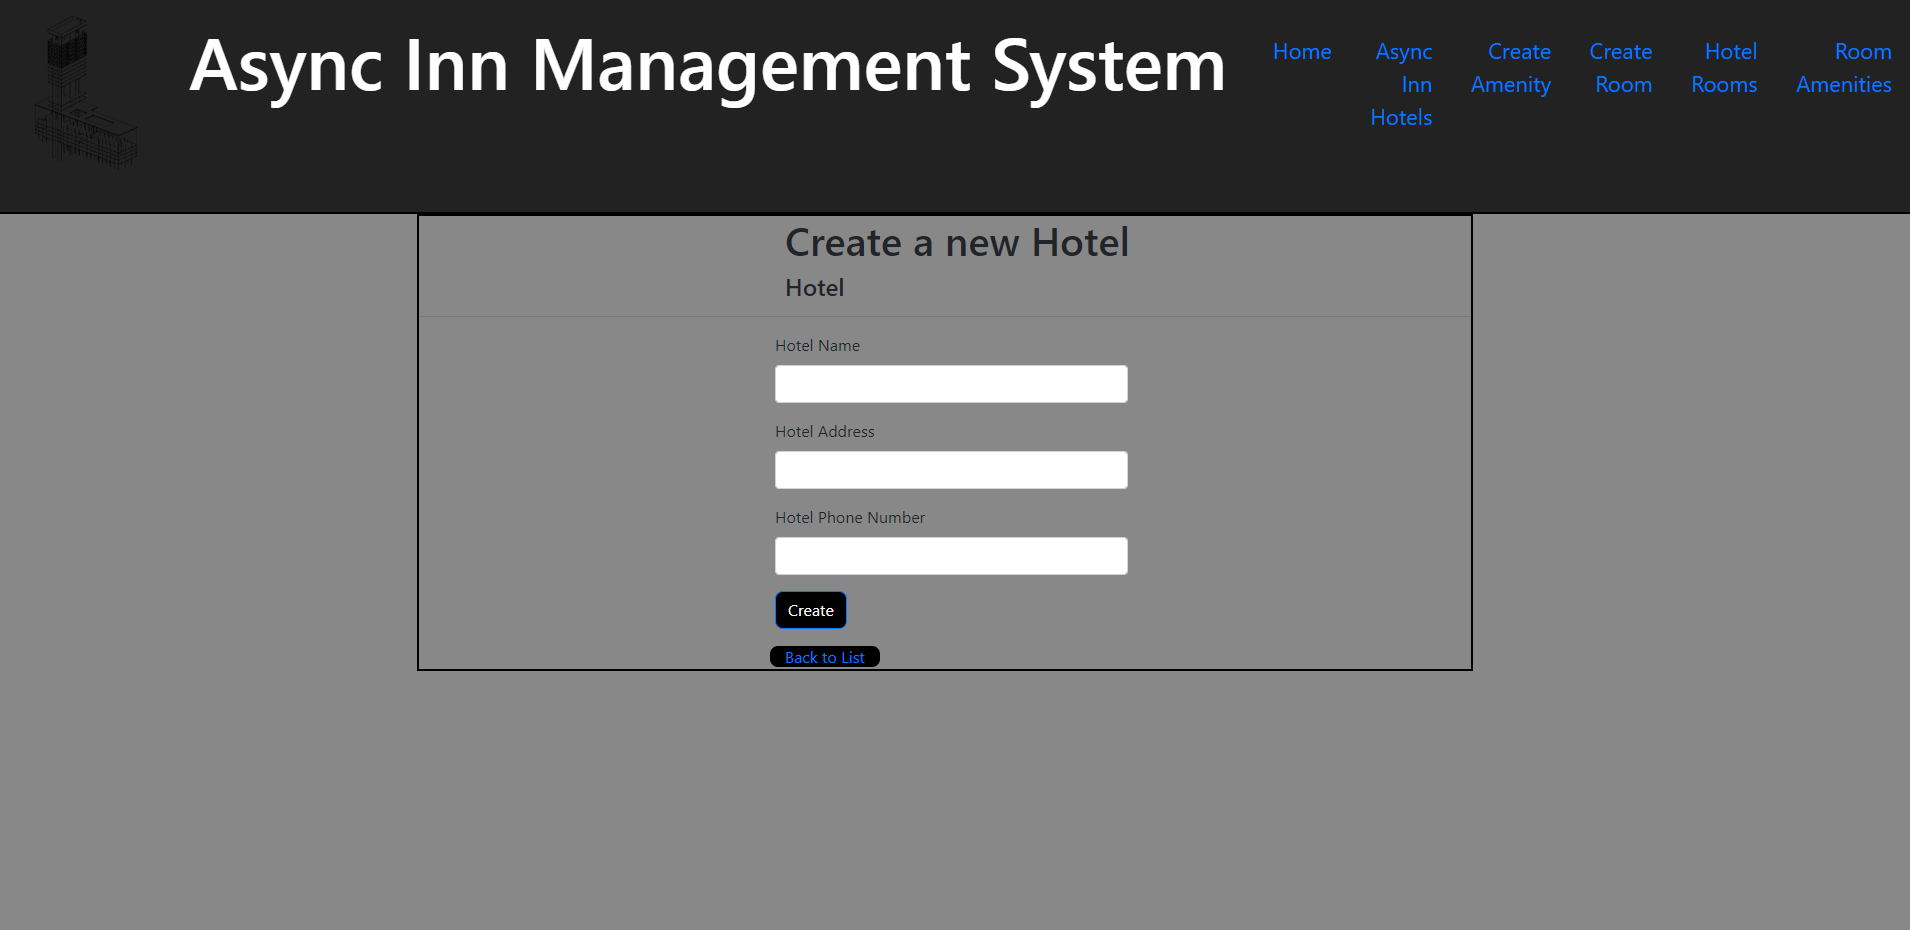
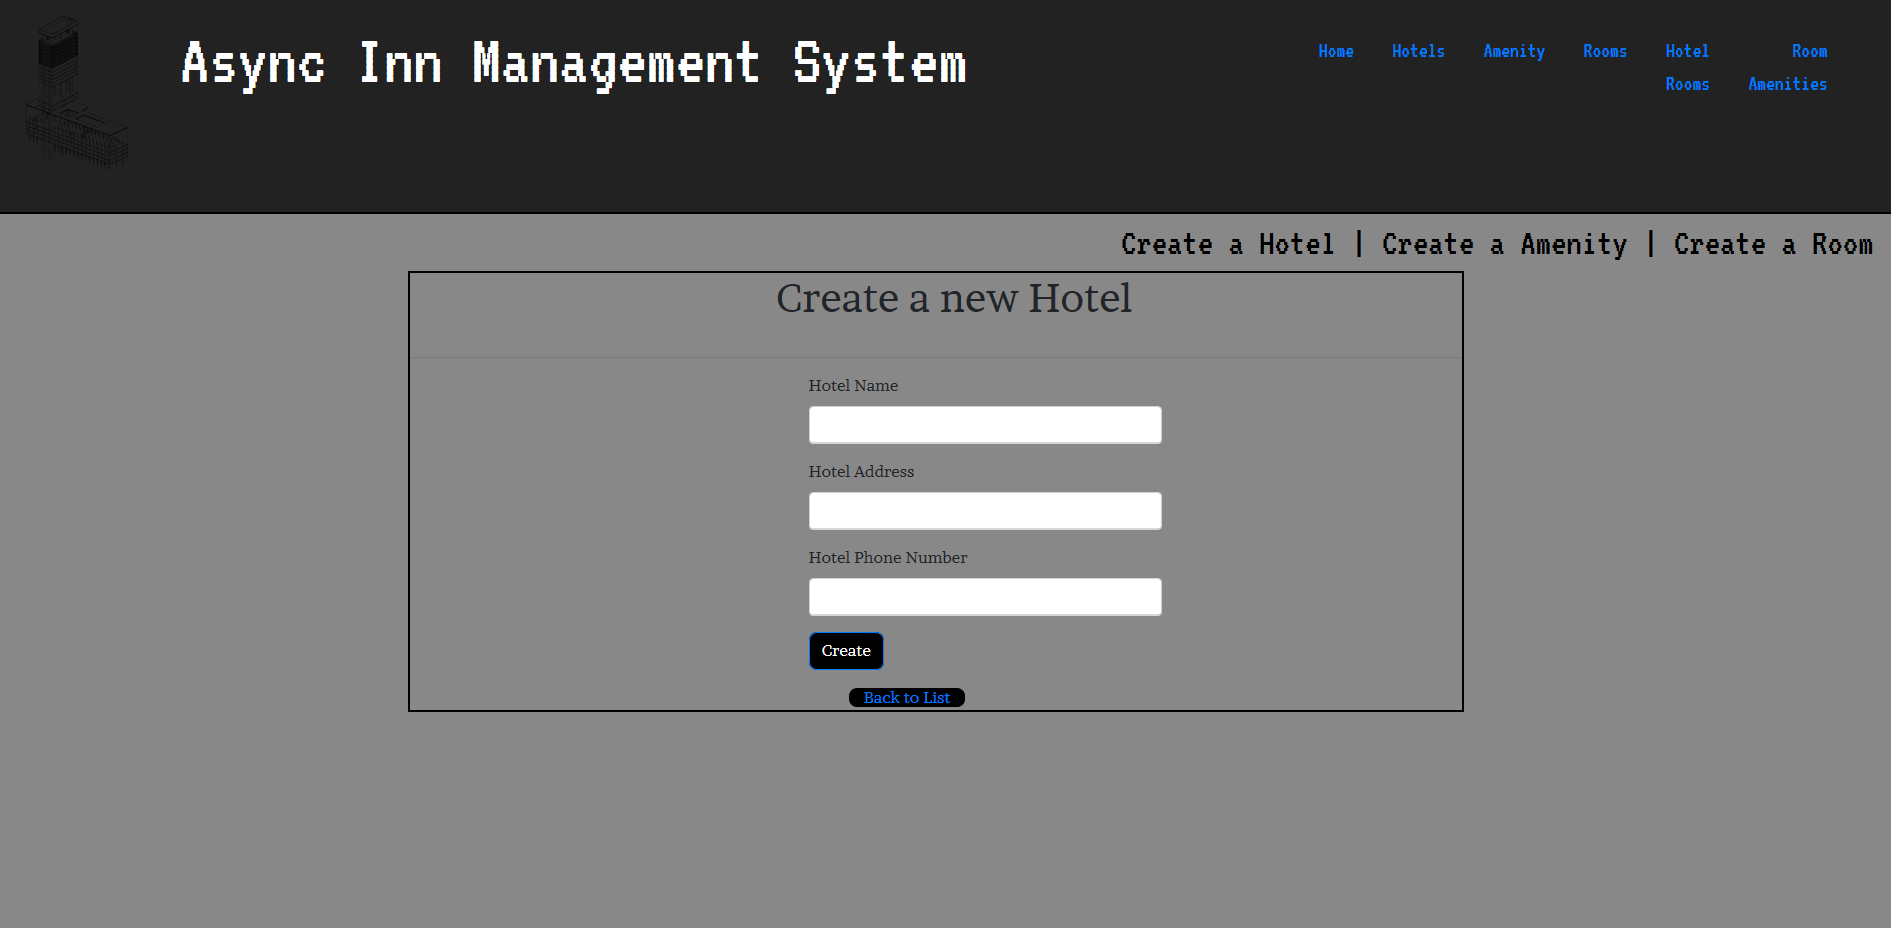
added visuals, updated about me

diff --git a/Async_Inn/Async_Inn/Controllers/HotelController.cs b/Async_Inn/Async_Inn/Controllers/HotelController.cs
@@ -20,17 +20,6 @@ namespace Async_Inn.Controllers
             _context = context;
         }
 
-        public async Task<IActionResult> Count()
-        {
-            var hotel = await _context.GetHotels();
-            int count = 0;
-            if (hotel != null)
-            {
-                count = hotel.Count(am => am.ID > 1);
-            }
-
-            return View(count);
-        }
 
         // GET: Hotel
         public async Task<IActionResult> Index(string searchString)

diff --git a/README.md b/README.md
@@ -2,7 +2,7 @@
 
 ### Introduction
 
-- This is a Hotel management system designed for "Async Inn". The application is intended to assist with management of the hotel chains assets. It allows an administrator the ability to add new hotel locations, find existing hotel locations, add new rooms, add new amenities, associate amenities with specific rooms, as well as manipulate the assets by editing, deleting, creating a room rate and assigning rooms specific numbers. 
+- This is a Hotel management system designed for "Async Inn". The application is intended to assist with management of the hotel chains assets. It allows an administrator the ability to search for a particular asset within each asset category. The administrator has the ability to add new hotel locations, find existing hotel locations, add new rooms, add new amenities, associate amenities with specific rooms, as well as manipulate the assets by editing, deleting, creating a room rate and assigning rooms specific numbers. The application will also display the total number of hotels, rooms, and amenities on each asset landing page. 
 
 ### Specifications
 
@@ -13,6 +13,7 @@
 - The Room table has a one to many relationship with the Hotel Room AND Room Amenities table. It also includes a enum for each potential room layout along with one primary key.
 - The Room Amenities table has a manay to many relationship with the Room AND Amenities table along with two concrete keys of Ameniteis ID and Room ID.
 - The Amenities table has a one to many relationship wit hthe Room Amenities table along with one primary key.
+- 
 
 ### System Design 
 ![SCHEMA](https://github.com/ntibbals/AsyncInn/blob/master/Assets/SchemaAsyncInn.png)
@@ -32,6 +33,15 @@
 
 #### Create new hotel
 ![SCHEMA](https://github.com/ntibbals/AsyncInn/blob/master/Assets/create-hotel.PNG)
+
+#### Edit a hotel
+![SCHEMA](https://github.com/ntibbals/AsyncInn/blob/master/Assets/edit-hotel.PNG)
+
+#### Details of a hotel
+![SCHEMA](https://github.com/ntibbals/AsyncInn/blob/master/Assets/hotel-details.PNG)
+
+#### Details of a hotel
+![SCHEMA](https://github.com/ntibbals/AsyncInn/blob/master/Assets/hotel-delete.PNG)
 
 #### Rooms navigation page
 ![SCHEMA](https://github.com/ntibbals/AsyncInn/blob/master/Assets/room-in.PNG)
